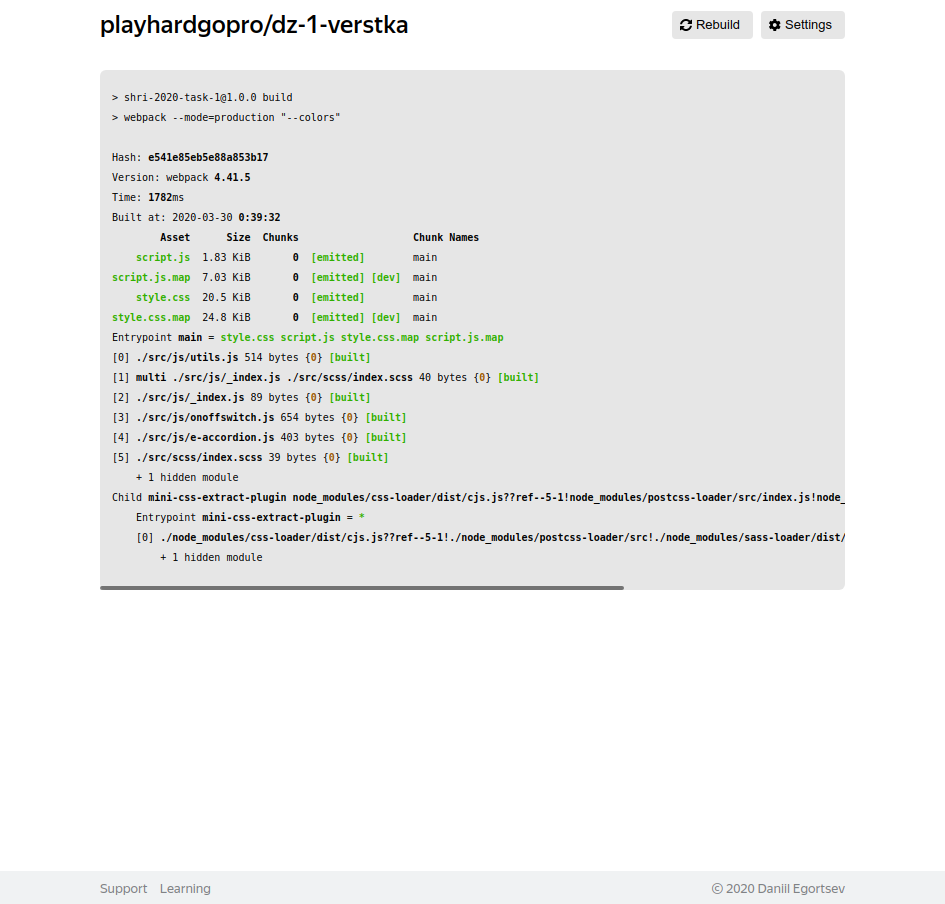
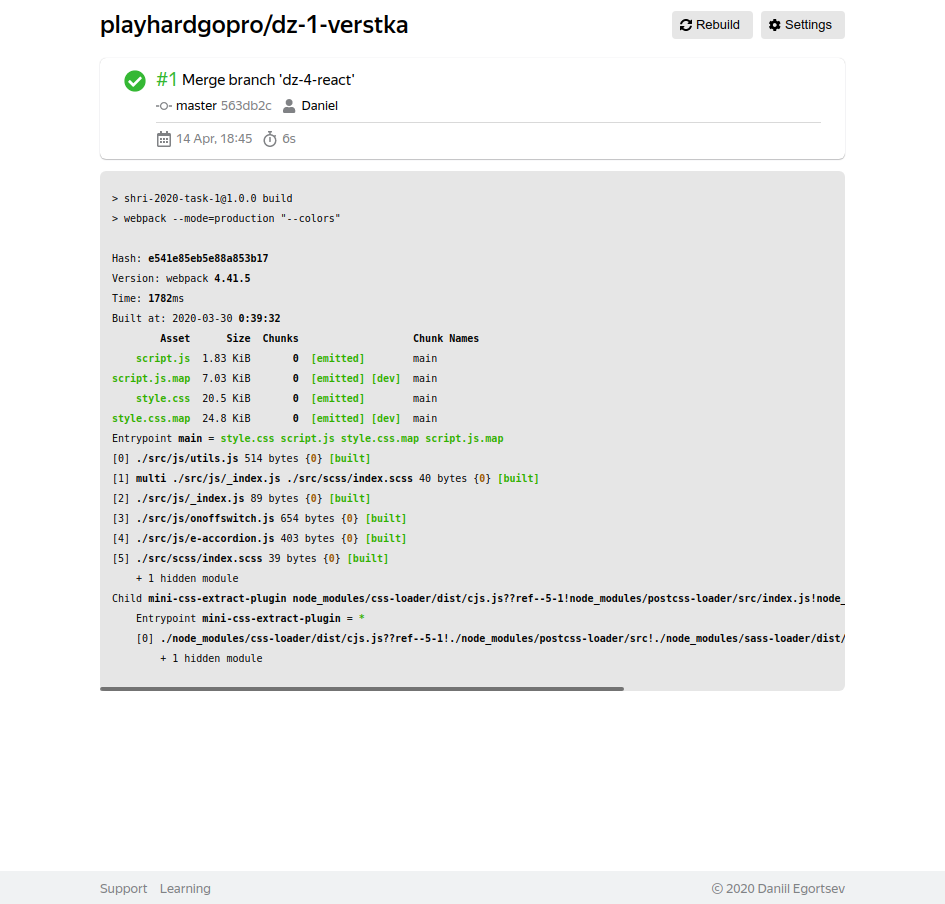
Update: screens

Changed region(s): [[0.0921, 0.0619, 0.9206, 0.7743]]

diff --git a/client/src/components/common/Header/Header.jsx b/client/src/components/common/Header/Header.jsx
@@ -33,13 +33,13 @@ const Header = ({ children, runBuild }) => {
       hiddenBtn.runBuild = false
       hiddenBtn.settings = false
       header.style = { type: 'h1', size: '24-30', bold: true }
-      header.text = settings.repoName
+      header.text = settings.repoName || 'username/reponame'
       break
     case '/build/:buildNumber':
       hiddenBtn.rebuild = false
       hiddenBtn.settings = false
       header.style = { type: 'h1', size: '24-30', bold: true }
-      header.text = settings.repoName
+      header.text = settings.repoName || 'username/reponame'
       break
     default:
       header.style = { type: 'h1', size: '24-28', view: 'ghost' }
@@ -103,17 +103,15 @@ const Header = ({ children, runBuild }) => {
   )
 }
 
-Header.propTypes = {
-  children: PropTypes.node,
-  className: PropTypes.objectOf(PropTypes.string || PropTypes.bool),
-}
-Header.defaultProps = {
-  children: '',
-  className: {},
-}
-
 const mapDispatchToProps = {
   runBuild,
 }
 
 export default connect(null, mapDispatchToProps)(Header)
+
+Header.propTypes = {
+  children: PropTypes.node,
+}
+Header.defaultProps = {
+  children: '',
+}

diff --git a/client/src/components/UI/List/List.jsx b/client/src/components/UI/List/List.jsx
@@ -1,4 +1,4 @@
-import React, { useState } from 'react'
+import React, { useState, useEffect } from 'react'
 import PropTypes from 'prop-types'
 import { withNaming } from '@bem-react/classname'
 import { connect, useSelector } from 'react-redux'
@@ -13,19 +13,22 @@ const cnList = cn('list')
 const List = ({ getDetailsByBuildId, getBuildList }) => {
   const history = useHistory()
   const buildList = useSelector((state) => state.history.buildList)
-  const [showButton, setShowButton] = useState(true)
+  const [showButton, setShowButton] = useState(false)
 
   function handleClick(event, { buildNumber, buildId }) {
     // getDetailsByBuildId(buildId)
     history.push({ pathname: `build/${buildNumber}`, state: buildId })
   }
 
+  useEffect(() => {}, [showButton])
+
   function handleShowMore() {
     let currentAmount = buildList.length || 10
 
     if (currentAmount >= buildList[0].buildNumber) {
-      setShowButton(!showButton)
+      setShowButton(false)
     }
+    setShowButton(true)
 
     currentAmount += 25
     getBuildList(currentAmount)

diff --git a/client/src/components/UI/Card/Card.jsx b/client/src/components/UI/Card/Card.jsx
@@ -70,7 +70,7 @@ const CardMeta2 = ({ start, duration, status }) => {
   )
 }
 
-const Card = ({ children, className, options, onClick }) => {
+const Card = ({ options, onClick }) => {
   const { id, buildNumber, commitMessage, commitHash, branchName, authorName, start, duration, status } = options
   const match = useRouteMatch()
   let viewStatus = ''
@@ -134,12 +134,20 @@ const Card = ({ children, className, options, onClick }) => {
 }
 
 Card.propTypes = {
-  children: PropTypes.node,
-  className: PropTypes.objectOf(PropTypes.oneOfType([PropTypes.string, PropTypes.bool])),
+  options: PropTypes.objectOf(PropTypes.oneOfType([PropTypes.string, PropTypes.number])),
 }
 Card.defaultProps = {
-  children: '',
-  className: {},
+  options: {
+    id: '1',
+    buildNumber: '1',
+    commitMessage: 'commit message',
+    commitHash: 'commit hash',
+    branchName: 'branchName',
+    authorName: 'authorName',
+    start: '"2020-04-14T18:36:22.229Z"',
+    duration: '1234',
+    status: 'Waiting',
+  },
 }
 
 export default Card

diff --git a/tests/desktop/history.test.js b/tests/desktop/history.test.js
@@ -9,13 +9,6 @@ describe('History', function () {
         assert.ok(exists, 'Список билдов не появился')
       })
   })
-  it('Card screenshot test', async function () {
-    return this.browser.url('http://localhost:3000/history').assertView('history', '.card', {
-      allowViewportOverflow: true,
-      compositeImage: true,
-      screenshotDelay: 100,
-    })
-  })
   it('screenshot test', async function () {
     return this.browser.url('http://localhost:3000/history').assertView('history', 'body', {
       allowViewportOverflow: true,

diff --git a/tests/desktop/home.test.js b/tests/desktop/home.test.js
@@ -1,0 +1,11 @@
+const { assert } = require('chai')
+
+describe('Home', function () {
+  it('screenshot test', async function () {
+    return this.browser.url('http://localhost:3000/').assertView('home', 'body', {
+      allowViewportOverflow: true,
+      compositeImage: true,
+      screenshotDelay: 100,
+    })
+  })
+})
